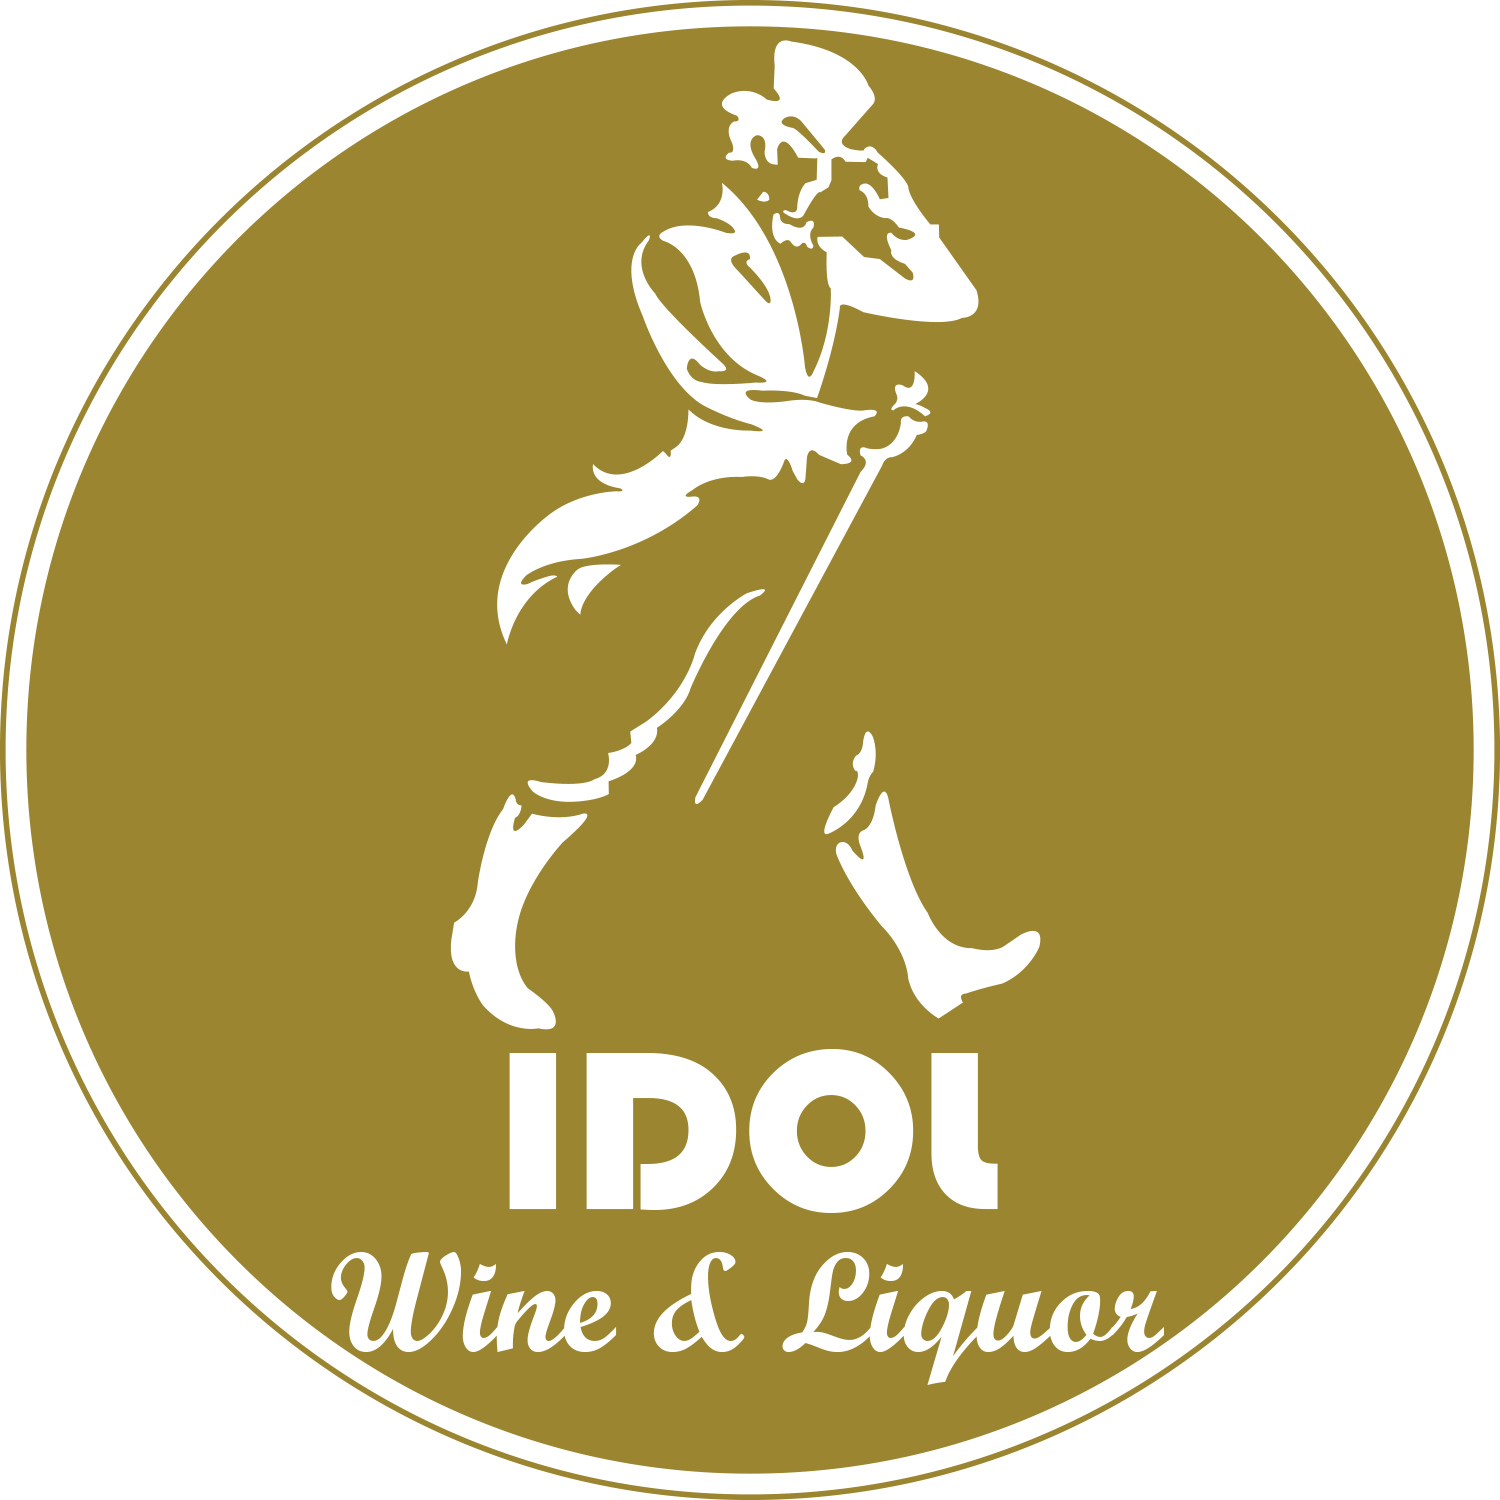
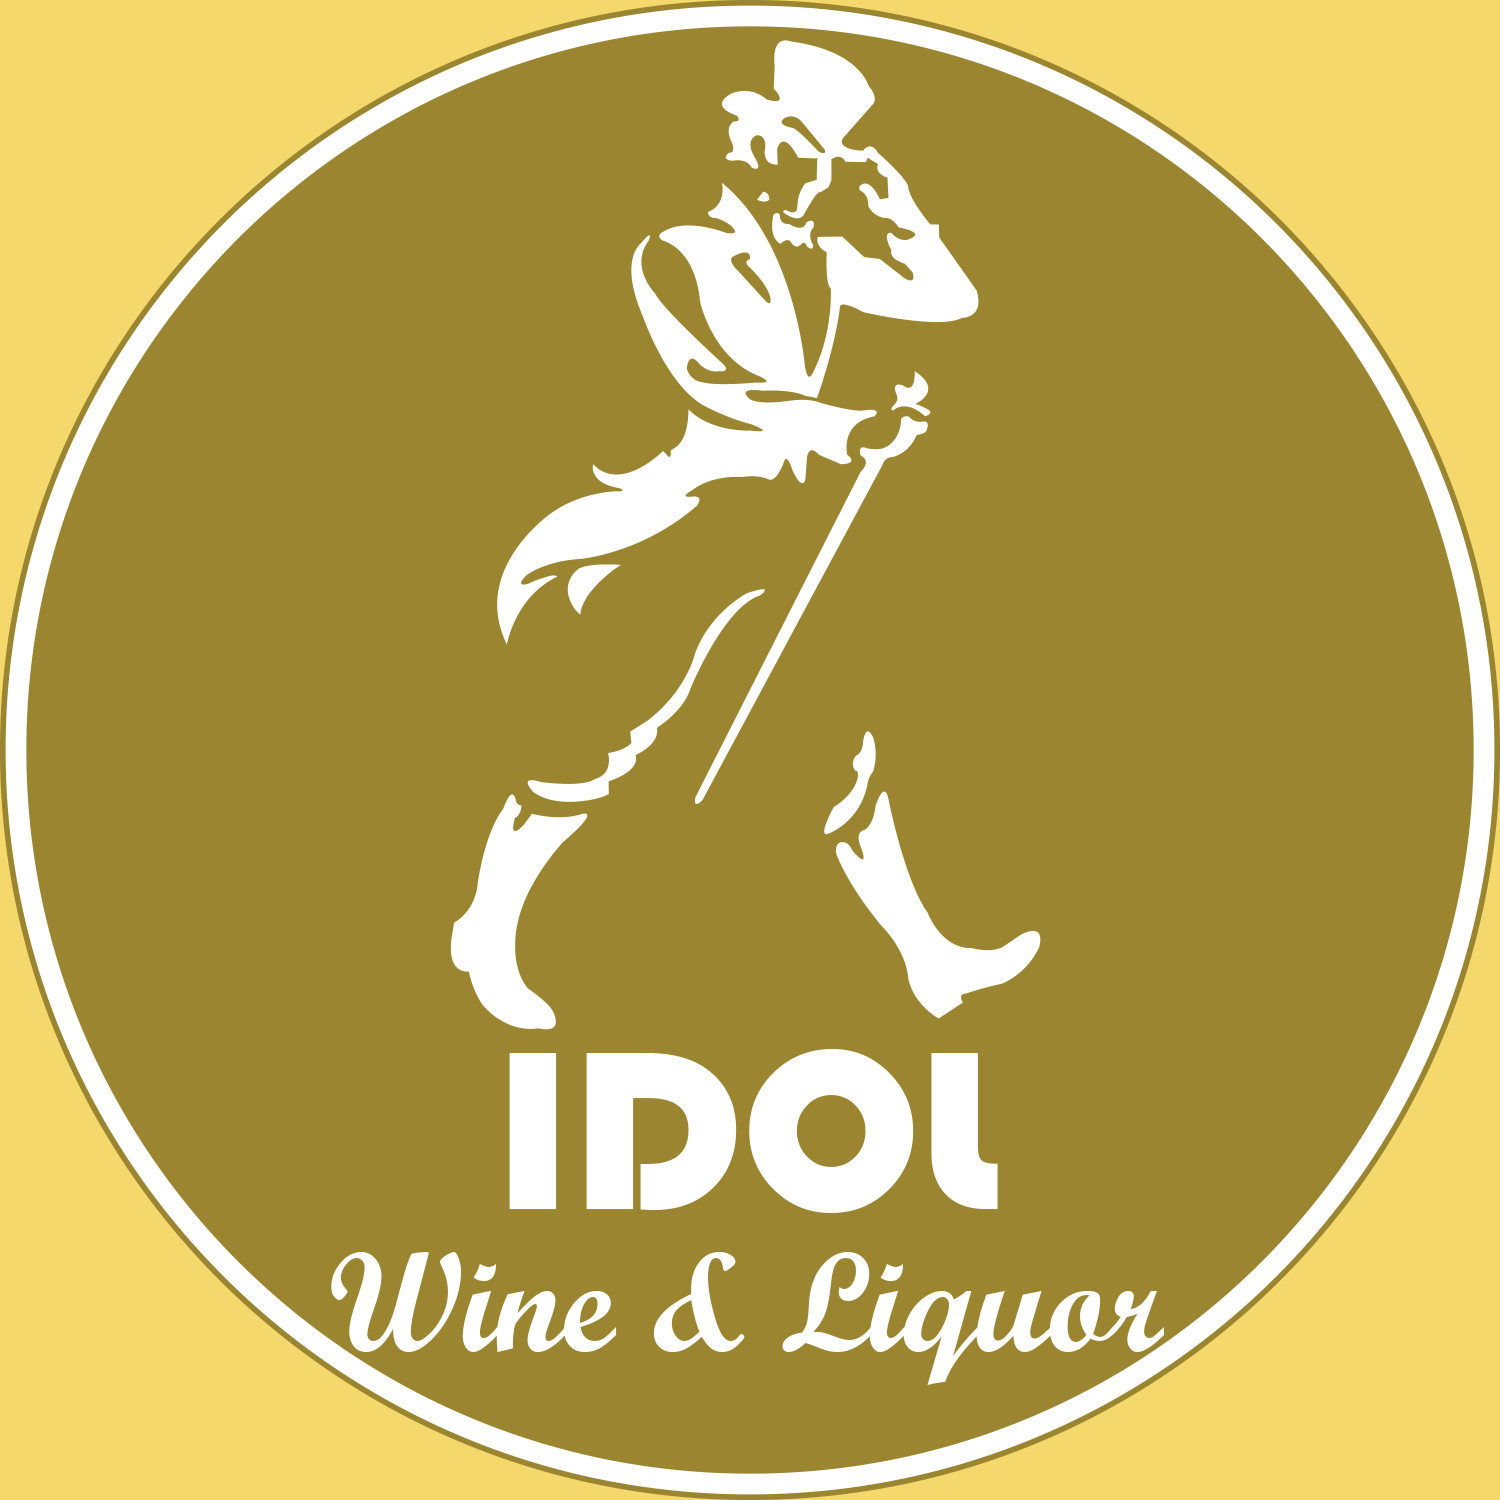
CSS Project

diff --git a/CSS/CSS_PJ/css/style.css b/CSS/CSS_PJ/css/style.css
@@ -27,6 +27,7 @@
 
 .nav{
     box-shadow: 8px 10px 30px rgba(0,0,0,0.3);
+    background-color: #f4d86c;
 }
 
 .nav_item li a:hover{
@@ -45,6 +46,10 @@
     padding: 5px;
     border-radius: 50%;
     color: white;
+}
+
+.body{
+    background-color: #f4d86c;
 }
 
 /* end nav */
@@ -86,7 +91,7 @@
 .carousel_icon{
     position: absolute;
     top: 120px;
-    padding-left: 600px;
+    padding-left: 650px;
     width: 200px;
     height: 320px;
 }

diff --git a/CSS/CSS_PJ/index.html b/CSS/CSS_PJ/index.html
@@ -8,7 +8,7 @@
     <link rel="stylesheet" href="css/style.css">
     <link rel="stylesheet" href="fontawesome/css/all.min.css">
 </head>
-<body>
+<body class="body">
     <!-- Start Nav Bar -->
      <nav class="nav">
         <a href="index.html"><img src="images/idol.jpg" alt="" class="nav_logo"></a>
